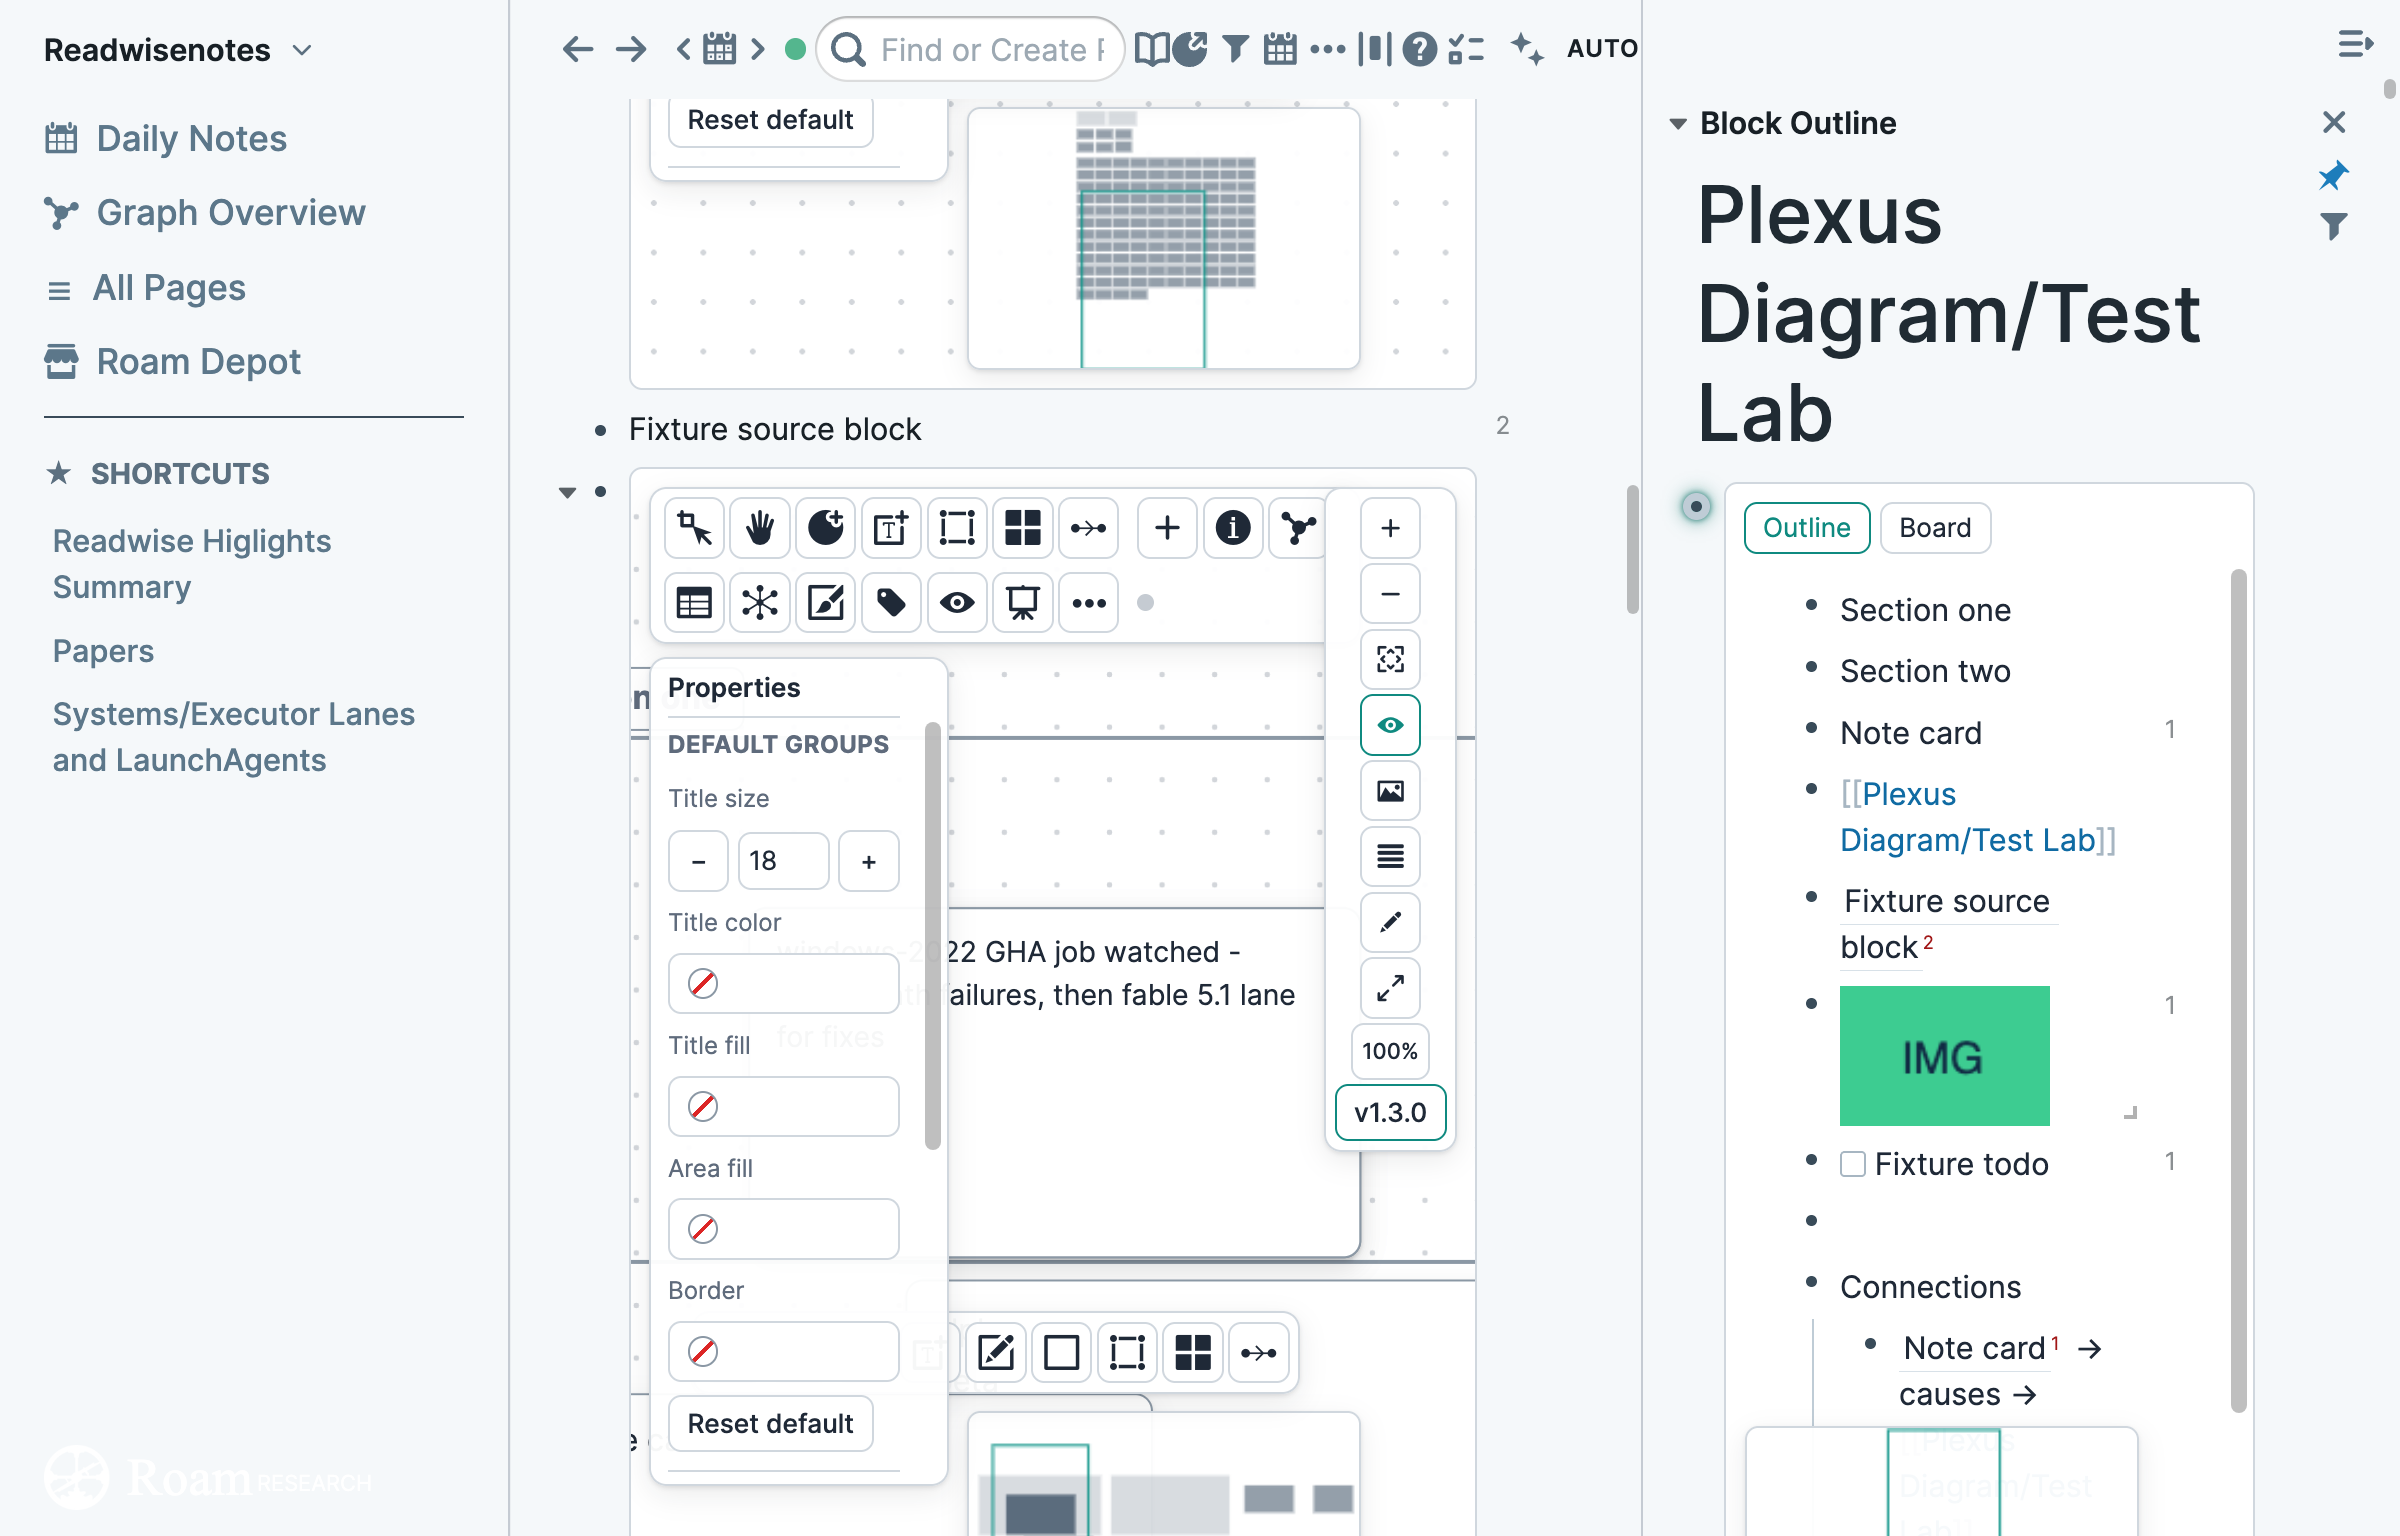
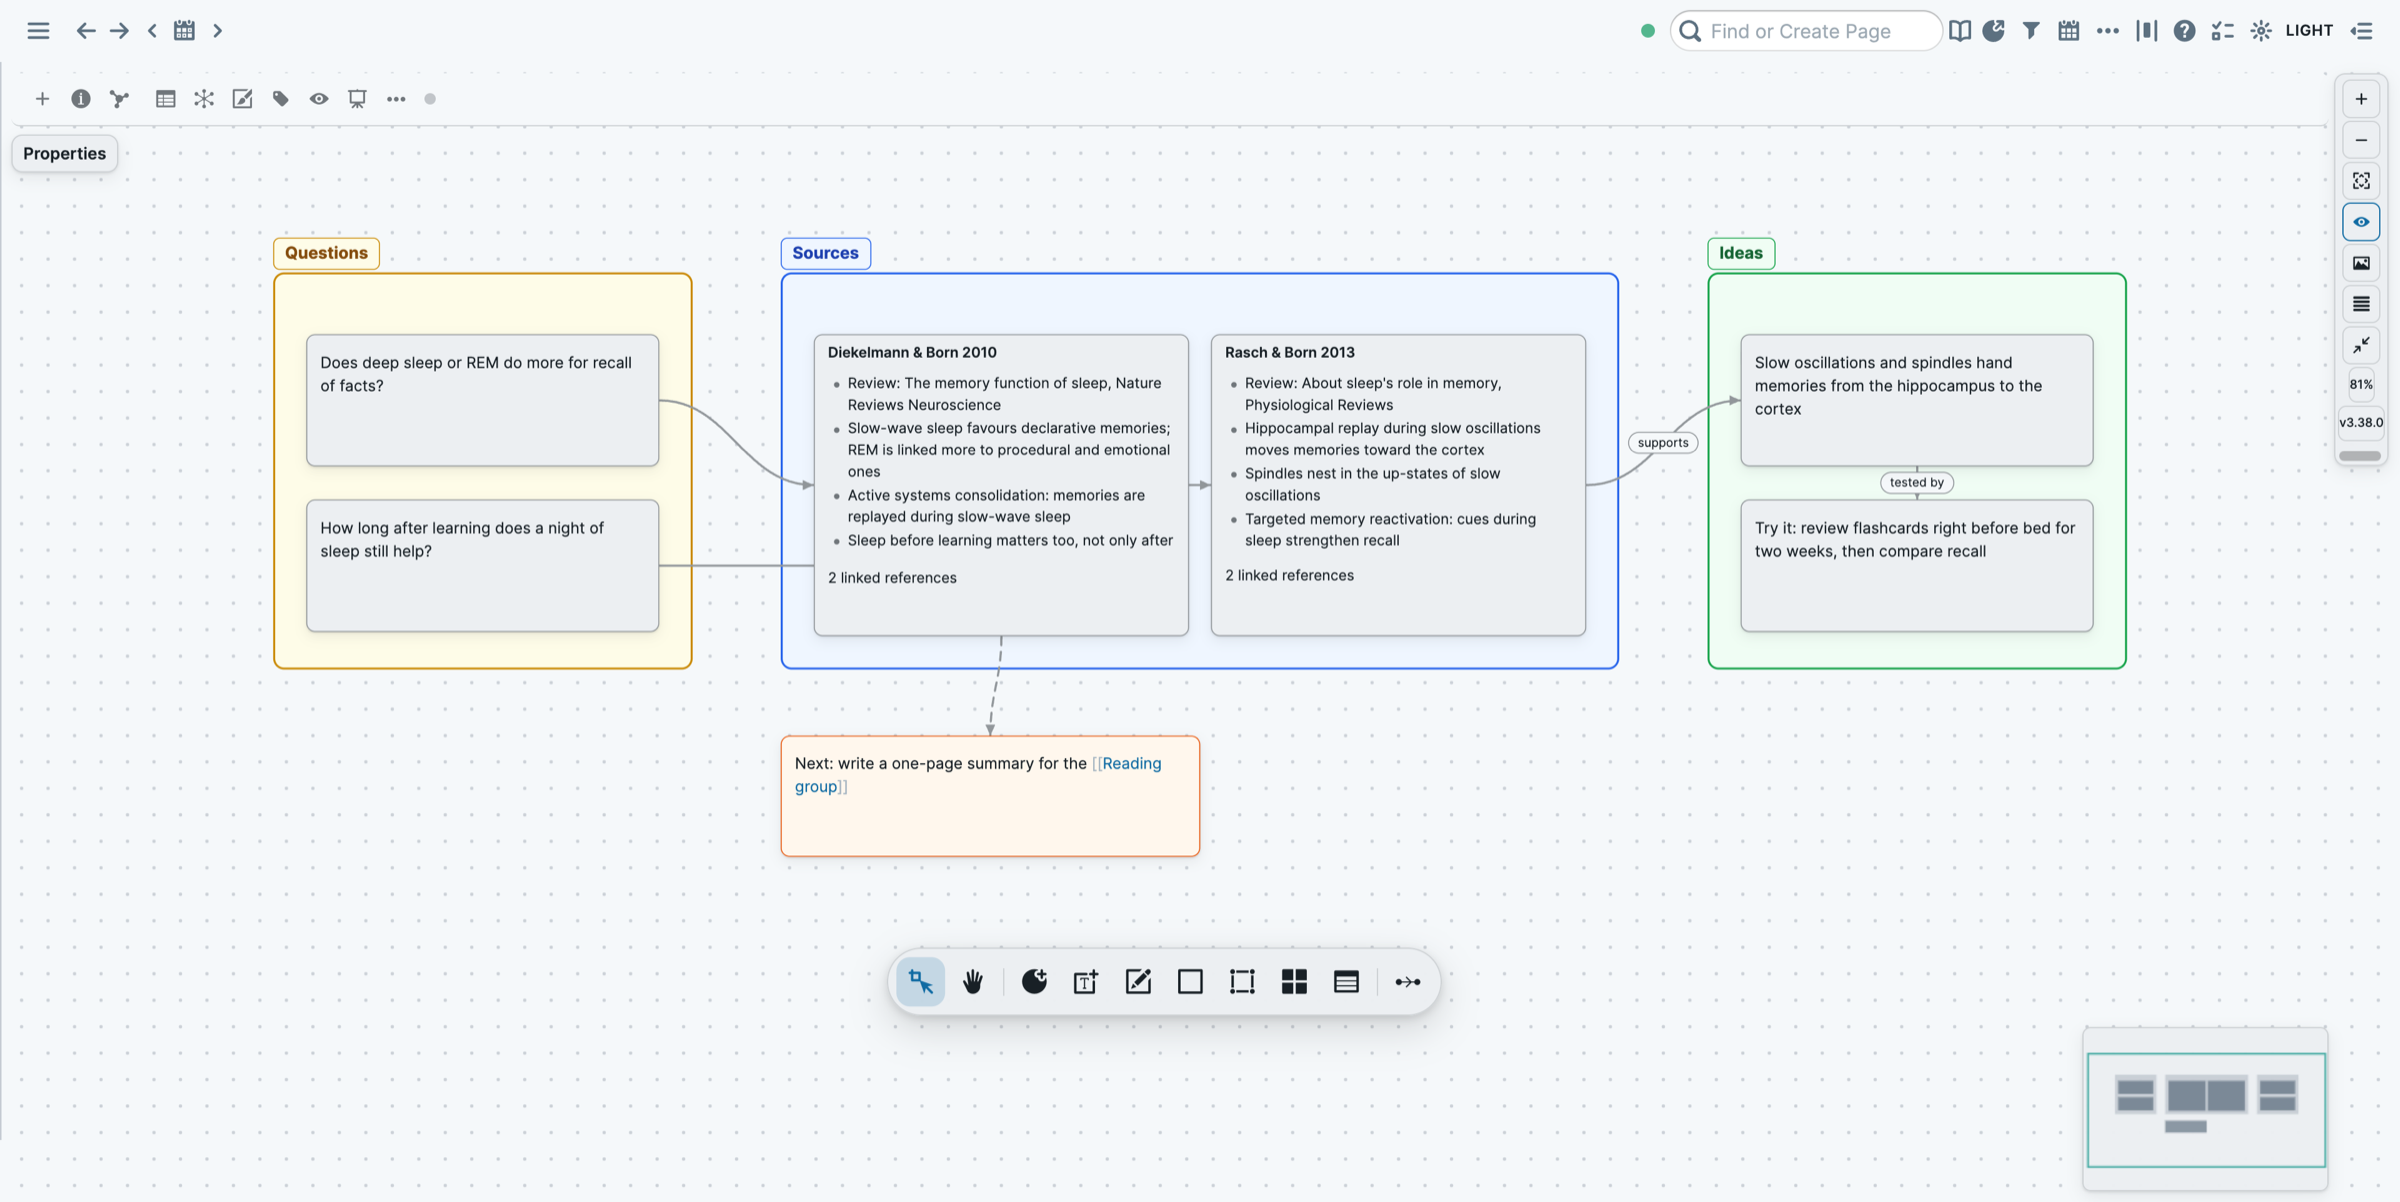
PXD-13: Depot draft on 3.38.0, new screenshots (#36)
Listing source_commit points at the v3.38.0 release (d7b48d6). The Depot
README drops the 1.3/2.0 and P2-P7 notes and lists what is still open.
README screenshots retaken on 3.38.0 (light, dark, tool dock); the Depot
draft links them instead of keeping copies.

diff --git a/docs/depot/README.md b/docs/depot/README.md
@@ -4,19 +4,19 @@ This folder is the Roam Depot material for Plexus Diagram. Nothing here is read 
 
 ## Description
 
-Plexus Diagram is a whiteboard on a Roam `{{[[diagram]]}}` block. A card, a section, and a connection are ordinary blocks. Graph links already in the graph draw as dashed arrows. Restore native diagram hands the block back to Roam's own diagram view.
+Plexus Diagram is a whiteboard on a Roam `{{[[diagram]]}}` block. Cards, sections, and connections are ordinary blocks. A board or a section can follow a block's children, a query, linked references, a page's headings, journals, the Inbox, or another board. Graph links already in the graph draw as arrows. Restore native diagram hands the block back to Roam's own diagram view.
 
 The product page Roam renders is the repository `README.md` at `source_commit`. The short line in the metadata file is the marketplace blurb.
 
 ## Screenshots
 
-These are the Test Lab fixture shots already in `docs/img/`.
+Taken on 3.38.0 in Roam Desktop, on a scratch board in a test graph, with the light and the dark Roam theme. They are the README images in `docs/img/`.
 
-![Light theme](screenshots/board-light.png)
+![A reading-map board in the light theme](../img/board-light.png)
 
-![Dark token set](screenshots/board-dark.png)
+![The same board in a dark Roam theme](../img/board-dark.png)
 
-![Tool palette](screenshots/palette.png)
+![The tool dock with the Card tool active](../img/palette.png)
 
 ## Metadata
 
@@ -28,10 +28,12 @@ These are the Test Lab fixture shots already in `docs/img/`.
 | author | Svyatoslav Kleshchev |
 | source_url | https://github.com/Svyk/plexus-diagram |
 | source_repo | https://github.com/Svyk/plexus-diagram.git |
-| source_commit | `fea90ba1e2bbb4c9f3d1f2687a10443454f6a1b0` |
+| source_commit | `d7b48d6a69d4b6394a96f50a6f655f16ba8d546b` |
 | tags | diagram, whiteboard, canvas, blocks |
 
-`source_commit` is `origin/main` on 2026-10-02 (`docs(P7/UI-9): tick the changelog popover`). That is the commit a reviewer can fetch today. The annotated tag `v1.3.0` is `00841d5cc9d00b4232e9735cc2c27c5ebb6ac79f`. Local `main` is ahead of `origin/main` and has not been pushed. Replace `source_commit` with the SHA on GitHub before opening the pull request.
+`source_commit` is the 3.38.0 release, the commit the annotated tag `v3.38.0` points to (`PXD-12: Release 3.38: README+CHANGELOG`). It is on `origin/main`.
+
+The README at that commit still shows the 2.x screenshots, because the new ones landed after the tag. Roam renders the README at `source_commit`, so before opening the pull request either move `source_commit` to a later `main` commit that has the new images (the extension code is the same 3.38.0), or wait for the next release.
 
 ## Pull request
 
@@ -43,13 +45,20 @@ Body:
 Add extensions/Svyk/plexus-diagram.json.
 
 Source: https://github.com/Svyk/plexus-diagram
-Commit: fea90ba1e2bbb4c9f3d1f2687a10443454f6a1b0
+Commit: d7b48d6a69d4b6394a96f50a6f655f16ba8d546b
 ```
 
 Fork `Roam-Research/roam-depot`, copy the JSON to `extensions/Svyk/plexus-diagram.json`, and open that pull request only when you decide to. This draft does not do that.
 
 ## What the reviewer will build
 
-`build.sh` runs `npm ci --ignore-scripts --no-audit --no-fund` and then `node build.mjs`. The repo root has `README.md`, `extension.js`, `extension.css`, `CHANGELOG.md`, and `LICENSE` (MIT). The Depot draft was written against package 1.3.0. The tagged release is 2.0.0.
+`build.sh` runs `npm ci --ignore-scripts --no-audit --no-fund` and then `node build.mjs`. The repo root has `README.md`, `extension.js`, `extension.css`, `CHANGELOG.md`, and `LICENSE` (MIT). The package version is 3.38.0.
 
-Phase gates P2 through P7 are still blocked. This draft does not treat the listing as a release.
+## Open before submitting
+
+From the 2026-10-29 Depot research, still open at 3.38.0:
+
+- The OCR beta loads onnxruntime-web from cdn.jsdelivr.net, and the anydoc converter fetches its wasm from svyk.github.io. Both are hash-pinned but outside the reviewed bundle. Expect Roam's eval warning, which blocks install for a whole graph, or a rejection. Leaving both out of the Depot build avoids it.
+- `extension.js` is about 4.6 MiB. Depot sets no limit, but Roam asks that heavy dependencies load lazily.
+- Every diagram is a Plexus board is on by default. A reviewer may read that as replacing a native feature.
+- README images use relative paths. Other Depot READMEs use absolute `raw.githubusercontent.com` URLs; whether Roam resolves relative ones is unchecked.

diff --git a/README.md b/README.md
@@ -9,7 +9,7 @@ A Heptabase-style whiteboard for Roam `{{[[diagram]]}}` blocks. Cards, colored s
 - **Read and parse PDFs.** Roam's own PDF reader beside the board, highlights as cards, and a parser that turns a PDF into headings, lists and tables you can insert.
 - **Big boards stay quick.** Boards of more than a thousand cards open from a snapshot and pan and zoom smoothly.
 
-![The fixture board in the light theme](docs/img/board-light.png)
+![A reading-map board: sections, page cards and labeled connections](docs/img/board-light.png)
 
 ## Install
 
@@ -35,7 +35,7 @@ Boards enhanced with 0.6 upgrade to the 1.0 format once, the first time they are
 
 An enhanced board keeps Roam's diagram controls and adds to them (the 1.3 native set: the rail, Edit Block, the Properties panel, and the note-card hover).
 
-![The same board with the dark token set](docs/img/board-dark.png)
+![The same board in a dark Roam theme](docs/img/board-dark.png)
 
 - **Rail.** The vertical stack on the right (Settings can switch it to a horizontal bar): zoom in, zoom out, fit view, Toggle Minimap, Save PNG, Open outline in sidebar, Edit Block, Maximize, the zoom percent, and the version badge. Edit Block opens the diagram block's text. Esc returns to the board. The badge opens this version's changelog from the bundle. No network.
 - **Properties.** The panel on the canvas. It edits the selection: text, title size, title color, title fill, area fill, fill, border, edges, and sections. Reset default clears that selection's overrides. Background, on the board, sets this board's pattern and tone.
@@ -45,7 +45,7 @@ An enhanced board keeps Roam's diagram controls and adds to them (the 1.3 native
 - **Tool dock.** The floating bar along the bottom, above the minimap: Select (V), Hand (H), Card (N), Text (T), Sticky (S), Shape (R), Section (G), Board (W), Table (B), Connect (C). The active tool has a sliding highlight; double-click a tool to lock it (padlock). With Card, Sticky, Section or Shape active the dock shows that tool's options: with nothing selected a color, look or shape sets the next item you create (kept in memory only); with a selection it restyles the selection. Position, shape, labels and size are in Settings; a board can pick its own position from More, Dock position for this board. Below zoom 0.2 the dock keeps Select, Hand and Board. Hide it with Show tool palette.
 - A note card is a plain block. Hover shows Color, Expand, and References.
 
-![The tool palette above the minimap](docs/img/palette.png)
+![The tool dock with the Card tool active: colors and the Block or Card look](docs/img/palette.png)
 
 ## Using the board
 

diff --git a/deploy/README.md b/deploy/README.md
@@ -9,7 +9,7 @@ A Heptabase-style whiteboard for Roam `{{[[diagram]]}}` blocks. Cards, colored s
 - **Read and parse PDFs.** Roam's own PDF reader beside the board, highlights as cards, and a parser that turns a PDF into headings, lists and tables you can insert.
 - **Big boards stay quick.** Boards of more than a thousand cards open from a snapshot and pan and zoom smoothly.
 
-![The fixture board in the light theme](docs/img/board-light.png)
+![A reading-map board: sections, page cards and labeled connections](docs/img/board-light.png)
 
 ## Install
 
@@ -35,7 +35,7 @@ Boards enhanced with 0.6 upgrade to the 1.0 format once, the first time they are
 
 An enhanced board keeps Roam's diagram controls and adds to them (the 1.3 native set: the rail, Edit Block, the Properties panel, and the note-card hover).
 
-![The same board with the dark token set](docs/img/board-dark.png)
+![The same board in a dark Roam theme](docs/img/board-dark.png)
 
 - **Rail.** The vertical stack on the right (Settings can switch it to a horizontal bar): zoom in, zoom out, fit view, Toggle Minimap, Save PNG, Open outline in sidebar, Edit Block, Maximize, the zoom percent, and the version badge. Edit Block opens the diagram block's text. Esc returns to the board. The badge opens this version's changelog from the bundle. No network.
 - **Properties.** The panel on the canvas. It edits the selection: text, title size, title color, title fill, area fill, fill, border, edges, and sections. Reset default clears that selection's overrides. Background, on the board, sets this board's pattern and tone.
@@ -45,7 +45,7 @@ An enhanced board keeps Roam's diagram controls and adds to them (the 1.3 native
 - **Tool dock.** The floating bar along the bottom, above the minimap: Select (V), Hand (H), Card (N), Text (T), Sticky (S), Shape (R), Section (G), Board (W), Table (B), Connect (C). The active tool has a sliding highlight; double-click a tool to lock it (padlock). With Card, Sticky, Section or Shape active the dock shows that tool's options: with nothing selected a color, look or shape sets the next item you create (kept in memory only); with a selection it restyles the selection. Position, shape, labels and size are in Settings; a board can pick its own position from More, Dock position for this board. Below zoom 0.2 the dock keeps Select, Hand and Board. Hide it with Show tool palette.
 - A note card is a plain block. Hover shows Color, Expand, and References.
 
-![The tool palette above the minimap](docs/img/palette.png)
+![The tool dock with the Card tool active: colors and the Block or Card look](docs/img/palette.png)
 
 ## Using the board
 
